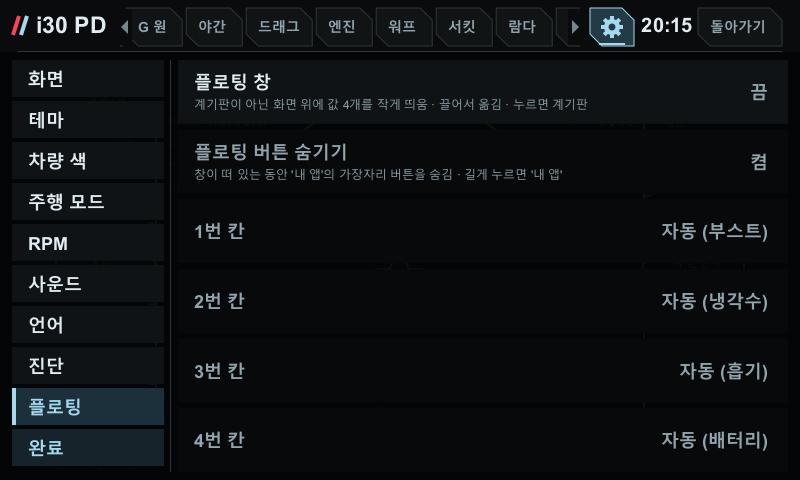
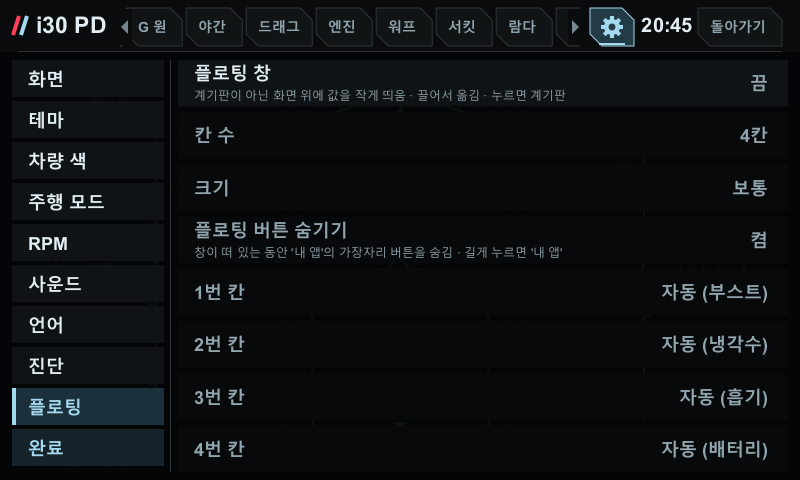
플로팅 창: shape, cell count (1, 2, 4) and size (작게 / 보통 / 크게 / 아주 크게) chosen separately
설정 → 플로팅: 플로팅 창 cycles 끔 / 카드 / 아래 띠 / 옆 세로; 칸 수 1 / 2 / 4 (a card is 2 wide from two cells, the strip
one row, the side one column); 크기 0.85 / 1 / 1.5 / 2 times a 124 × 64 cell; the cell rows past the count are dimmed.
The first test build's single choice carries over (its 큰 카드 is a 4-cell card at 아주 크게). The dragged position is
kept per shape, count and size. Previews x_float_* show eight combinations.

diff --git a/shared/src/com/veloster/vehicle/FloatPanel.java b/shared/src/com/veloster/vehicle/FloatPanel.java
@@ -6,31 +6,44 @@ import android.graphics.RectF;
 import android.graphics.Typeface;
 
 /**
- * 플로팅 창: a small see-through window of four readings that the dashboard keeps over every other screen (navi, home,
- * media) while it is not on screen itself. Four shapes (작은 카드 2×2, 큰 카드 2×2, 아래 띠 4칸, 옆 세로 4칸); each cell a short
- * name, the value and a thin bar that follows it (from zero for a value that goes negative, like boost). Off by
- * default. The dashboard app's FloatService owns the window; this draws it and holds the choices. Host-testable.
+ * 플로팅 창: a small see-through window of readings that the dashboard keeps over every other screen (navi, home, media)
+ * while it is not on screen itself. Chosen in 설정 → 플로팅: the shape (카드, 아래 띠, 옆 세로), how many cells (1, 2 or 4)
+ * and the size; each cell a short name, the value and a thin bar that follows it (from zero for a value that goes
+ * negative, like boost). Off by default. The dashboard app's FloatService owns the window; this draws it and holds the
+ * choices. Host-testable.
  */
 public final class FloatPanel {
-    public static final int OFF=0,SMALL=1,LARGE=2,STRIP=3,SIDE=4;
-    public static final String[] STYLE_NAMES={"끔","작은 카드 2×2","큰 카드 2×2","아래 띠 4칸","옆 세로 4칸"};
-    private static final int[] COLS={0,2,2,4,1},CW={0,124,250,125,124},CH={0,66,132,60,64};
+    public static final int OFF=0,CARD=1,STRIP=2,SIDE=3;
+    public static final String[] SHAPE_NAMES={"끔","카드","아래 띠","옆 세로"};
+    public static final int[] COUNTS={1,2,4};
+    public static final String[] SIZE_NAMES={"작게","보통","크게","아주 크게"};
+    public static final float[] SIZES={.85f,1,1.5f,2};
+    /** A cell at size 보통, px. */
+    static final int CELL_W=124,CELL_H=64;
     /** What a cell can show, in the order a tap on its settings row steps through, with the short name it shows. */
     public static final int[] CHOICES={Telemetry.BOOST,2,Telemetry.INTAKE,Telemetry.BAT_VOLTAGE,9,7,0,Telemetry.AMBIENT,Telemetry.FUEL_LEVEL,
         Telemetry.ENGINE_LOAD,10,Telemetry.CLUTCH_ODD,Telemetry.CLUTCH_EVEN,Telemetry.DPF_SOOT,Telemetry.DPF_TEMP};
     public static final String[] CHOICE_NAMES={"부스트","냉각수","흡기","배터리","페달","속도","RPM","외기온","연료","엔진 부하","브레이크","클러치 홀수","클러치 짝수","DPF 포집","DPF 온도"};
     /** -1 = automatic: boost, coolant, intake, battery; a diesel shows its DPF soot in the third. */
     public static final int[] AUTO_PETROL={Telemetry.BOOST,2,Telemetry.INTAKE,Telemetry.BAT_VOLTAGE},AUTO_DIESEL={Telemetry.BOOST,2,Telemetry.DPF_SOOT,Telemetry.BAT_VOLTAGE};
-    public static volatile int style=OFF;
+    public static volatile int shape=OFF,count=4,size=1;
     public static volatile boolean hideButton=true;
     public static final int[] cells={-1,-1,-1,-1};
 
     private FloatPanel(){}
-    public static int width(int s){return s<=OFF||s>=COLS.length?0:COLS[s]*CW[s];}
-    public static int height(int s){return s<=OFF||s>=COLS.length?0:(4/COLS[s])*CH[s];}
-    /** Where the window starts (screen 800 × 480, below the 52 px status bar): cards and the side column top right, the strip bottom middle. */
-    public static int defaultX(int s){return s==STRIP?(800-width(s))/2:800-width(s)-8;}
-    public static int defaultY(int s){return s==STRIP?480-height(s)-10:62;}
+    /** Columns of a shape with n cells: a card is 2 wide from 2 cells, the strip one row, the side one column. */
+    public static int cols(int shape,int n){return shape==STRIP?n:shape==SIDE?1:Math.min(2,n);}
+    public static int rows(int shape,int n){return (n+cols(shape,n)-1)/cols(shape,n);}
+    public static int cellW(int size){return Math.round(CELL_W*SIZES[clampSize(size)]);}
+    public static int cellH(int size){return Math.round(CELL_H*SIZES[clampSize(size)]);}
+    public static int width(int shape,int n,int size){return shape<=OFF?0:cols(shape,n)*cellW(size);}
+    public static int height(int shape,int n,int size){return shape<=OFF?0:rows(shape,n)*cellH(size);}
+    private static int clampSize(int s){return Math.max(0,Math.min(SIZES.length-1,s));}
+    /** Where the window starts (screen 800 × 480, below the 52 px status bar): the card and the side column top right, the strip bottom middle. */
+    public static int defaultX(int shape,int n,int size){return shape==STRIP?(800-width(shape,n,size))/2:800-width(shape,n,size)-8;}
+    public static int defaultY(int shape,int n,int size){return shape==STRIP?480-height(shape,n,size)-10:62;}
+    /** The next cell count after the current one (1, 2, 4, 1 ...). */
+    public static int nextCount(int n){return n>=4?1:n>=2?4:2;}
     /** The signal cell k shows (the automatic choice resolved for the car). */
     public static int signal(int k,boolean diesel){int c=cells[k];return c>=0?c:(diesel?AUTO_DIESEL:AUTO_PETROL)[k];}
     /** The next choice for a cell: automatic, then CHOICES in order, then automatic again. */
@@ -39,14 +52,14 @@ public final class FloatPanel {
 
     private static final Paint p=new Paint(3);private static final RectF r=new RectF();
     private static final int BG=0xd8080c10,EDGE=0x33ffffff,DIV=0x22ffffff,TXT=0xfff0f4f7,MUT=0xff96a0aa,TRACK=0x28ffffff,ACC=0xff5ac8fa,WARM=0xffffaa3c,HOT=0xffff4b3c;
-    /** Draws style s at 0,0 from the samples (index = signal). */
-    public static void draw(Canvas c,int s,Telemetry.Sample[] q,boolean diesel){
-        int cols=COLS[s],cw=CW[s],ch=CH[s],w=width(s),h=height(s);float k=s==LARGE?2:1;
-        p.setStyle(Paint.Style.FILL);p.setColor(BG);r.set(0,0,w,h);c.drawRoundRect(r,10,10,p);
-        p.setStyle(Paint.Style.STROKE);p.setStrokeWidth(1);p.setColor(EDGE);r.set(.5f,.5f,w-.5f,h-.5f);c.drawRoundRect(r,10,10,p);
-        p.setColor(DIV);for(int i=1;i<cols;i++)c.drawLine(i*cw,8,i*cw,h-8,p);for(int i=1;i<4/cols;i++)c.drawLine(8,i*ch,w-8,i*ch,p);
+    /** Draws the window (shape, n cells, size) at 0,0 from the samples (index = signal). */
+    public static void draw(Canvas c,int shape,int n,int size,Telemetry.Sample[] q,boolean diesel){
+        int cols=cols(shape,n),rows=rows(shape,n),cw=cellW(size),ch=cellH(size),w=cols*cw,h=rows*ch;float k=SIZES[clampSize(size)];
+        p.setStyle(Paint.Style.FILL);p.setColor(BG);r.set(0,0,w,h);c.drawRoundRect(r,10*k,10*k,p);
+        p.setStyle(Paint.Style.STROKE);p.setStrokeWidth(1);p.setColor(EDGE);r.set(.5f,.5f,w-.5f,h-.5f);c.drawRoundRect(r,10*k,10*k,p);
+        p.setColor(DIV);for(int i=1;i<cols;i++)c.drawLine(i*cw,8*k,i*cw,h-8*k,p);for(int i=1;i<rows;i++)c.drawLine(8*k,i*ch,w-8*k,i*ch,p);
         p.setStyle(Paint.Style.FILL);
-        for(int i=0;i<4;i++){int sig=signal(i,diesel);float x=(i%cols)*cw,y=(i/cols)*ch;Telemetry.Sample m=q[sig];float v=m.valid?m.value:Float.NaN;
+        for(int i=0;i<n;i++){int sig=signal(i,diesel);float x=(i%cols)*cw,y=(i/cols)*ch;Telemetry.Sample m=q[sig];float v=m.valid?m.value:Float.NaN;
             int lv=Tiles.level(sig,v),col=lv==2?HOT:lv==1?WARM:TXT;
             text(c,name(sig),x+8*k,y+17*k,12*k,MUT,Paint.Align.LEFT,Typeface.DEFAULT_BOLD);
             String unit=Telemetry.UNITS[sig],val=Tiles.text(sig,v);float uw=width(unit,11*k,Typeface.DEFAULT);

diff --git a/apps/dashboard/src/com/veloster/dashboard/FloatService.java b/apps/dashboard/src/com/veloster/dashboard/FloatService.java
@@ -20,7 +20,7 @@ import com.veloster.vehicle.VehicleDash;
  * 플로팅 창: while the dashboard is not on screen (any other app: navi, home, media), keeps reading the car (its own
  * VehicleDataClient, like the activity's) and shows FloatPanel over everything. Started by DashboardActivity.onPause and
  * at boot when 설정 → 플로팅 → 플로팅 창 is on; stopped when the dashboard comes back. Redraws 20 times a second. A tap opens
- * the dashboard, a long press 내 앱, a drag moves it (remembered per shape). Steps aside while the rear camera shows. With
+ * the dashboard, a long press 내 앱, a drag moves it (remembered per shape, cell count and size). Steps aside while the rear camera shows. With
  * 플로팅 버튼 숨기기 on it asks 내 앱 to hide its edge button, again every 30 s while up (내 앱 brings the button back on
  * its own when that stops); on the way out it asks for the button back.
  */
@@ -32,13 +32,13 @@ public final class FloatService extends Service implements Runnable {
     private WindowManager windows;
     private View panel;
     private WindowManager.LayoutParams layout;
-    private int shown=FloatPanel.OFF;
+    private int shown=-1;   // the key (shape, cells, size) of the window up, -1 none
     private long hideSentAt;private boolean hideSent;
 
     /** Starts the window if it is switched on (the dashboard just left the screen, or the head unit booted). */
     static void startIfOn(Context c){
         VehicleDash.loadFloat(c.getSharedPreferences("pit_vehicle_ui",0));
-        if(FloatPanel.style!=FloatPanel.OFF)try{c.startService(new Intent(c,FloatService.class));}catch(RuntimeException e){android.util.Log.w("VehicleDash","Floating window not started",e);}
+        if(FloatPanel.shape!=FloatPanel.OFF)try{c.startService(new Intent(c,FloatService.class));}catch(RuntimeException e){android.util.Log.w("VehicleDash","Floating window not started",e);}
     }
     static void stop(Context c){try{c.stopService(new Intent(c,FloatService.class));}catch(RuntimeException ignored){/* not running */}}
 
@@ -51,27 +51,27 @@ public final class FloatService extends Service implements Runnable {
     }
     public int onStartCommand(Intent intent,int flags,int startId){
         VehicleDash.loadFloat(prefs());
-        if(FloatPanel.style==FloatPanel.OFF){stopSelf();return START_NOT_STICKY;}
+        if(FloatPanel.shape==FloatPanel.OFF){stopSelf();return START_NOT_STICKY;}
         return START_STICKY;
     }
     private SharedPreferences prefs(){return getSharedPreferences("pit_vehicle_ui",0);}
 
     public void run(){
-        int want=VehicleDash.rearCamera()?FloatPanel.OFF:FloatPanel.style;
-        if(want!=shown){remove();if(want!=FloatPanel.OFF)add(want);}
+        int want=VehicleDash.rearCamera()||FloatPanel.shape==FloatPanel.OFF?-1:FloatPanel.shape*100+FloatPanel.count*10+FloatPanel.size;
+        if(want!=shown){remove();if(want>=0)add(FloatPanel.shape,FloatPanel.count,FloatPanel.size);}
         if(panel!=null){panel.invalidate();
             long now=android.os.SystemClock.elapsedRealtime();
             if(FloatPanel.hideButton&&(!hideSent||now-hideSentAt>=HIDE_REPEAT_MS)){hide(true);hideSentAt=now;}
             else if(!FloatPanel.hideButton&&hideSent)hide(false);}
         handler.postDelayed(this,FRAME_MS);
     }
-    private void add(final int style){
-        final int w=FloatPanel.width(style),h=FloatPanel.height(style);
+    private void add(final int shape,final int n,final int size){
+        final int w=FloatPanel.width(shape,n,size),h=FloatPanel.height(shape,n,size);final String at=shape+"_"+n+"_"+size;
         layout=new WindowManager.LayoutParams(w,h,WindowManager.LayoutParams.TYPE_PHONE,
             WindowManager.LayoutParams.FLAG_NOT_FOCUSABLE|WindowManager.LayoutParams.FLAG_NOT_TOUCH_MODAL|WindowManager.LayoutParams.FLAG_LAYOUT_NO_LIMITS,PixelFormat.TRANSLUCENT);
         layout.gravity=Gravity.TOP|Gravity.LEFT;
-        layout.x=prefs().getInt("float_x_"+style,FloatPanel.defaultX(style));layout.y=prefs().getInt("float_y_"+style,FloatPanel.defaultY(style));
-        final View v=new View(this){protected void onDraw(Canvas c){FloatPanel.draw(c,style,VehicleDash.snapshotNow(),VehicleDash.diesel());}};
+        layout.x=prefs().getInt("float_x_"+at,FloatPanel.defaultX(shape,n,size));layout.y=prefs().getInt("float_y_"+at,FloatPanel.defaultY(shape,n,size));
+        final View v=new View(this){protected void onDraw(Canvas c){FloatPanel.draw(c,shape,n,size,VehicleDash.snapshotNow(),VehicleDash.diesel());}};
         v.setOnTouchListener(new View.OnTouchListener(){
             float downX,downY;int startX,startY;boolean moved,held;
             final Runnable longPress=new Runnable(){public void run(){held=true;open(HUB,"com.veloster.carplayhub.HubActivity");}};
@@ -84,7 +84,7 @@ public final class FloatService extends Service implements Runnable {
                         layout.x=Math.max(0,Math.min(800-w,startX+(int)dx));layout.y=Math.max(0,Math.min(480-h,startY+(int)dy));
                         try{windows.updateViewLayout(view,layout);}catch(RuntimeException ignored){/* removed meanwhile */}return true;}
                     case MotionEvent.ACTION_UP:handler.removeCallbacks(longPress);
-                        if(moved)prefs().edit().putInt("float_x_"+style,layout.x).putInt("float_y_"+style,layout.y).apply();
+                        if(moved)prefs().edit().putInt("float_x_"+at,layout.x).putInt("float_y_"+at,layout.y).apply();
                         else if(!held)open(getPackageName(),"com.veloster.dashboard.DashboardActivity");
                         return true;
                     case MotionEvent.ACTION_CANCEL:handler.removeCallbacks(longPress);return true;
@@ -92,12 +92,12 @@ public final class FloatService extends Service implements Runnable {
                 return false;
             }
         });
-        try{windows.addView(v,layout);panel=v;shown=style;}
-        catch(RuntimeException e){android.util.Log.w("VehicleDash","Floating window refused",e);panel=null;shown=FloatPanel.OFF;stopSelf();}
+        try{windows.addView(v,layout);panel=v;shown=shape*100+n*10+size;}
+        catch(RuntimeException e){android.util.Log.w("VehicleDash","Floating window refused",e);panel=null;shown=-1;stopSelf();}
     }
     private void remove(){
         if(panel!=null){try{windows.removeView(panel);}catch(RuntimeException ignored){/* already gone */}panel=null;}
-        shown=FloatPanel.OFF;
+        shown=-1;
         if(hideSent)hide(false);
     }
     private void open(String pkg,String cls){

diff --git a/shared/src/com/veloster/i18n/UiText.java b/shared/src/com/veloster/i18n/UiText.java
@@ -151,7 +151,7 @@ public final class UiText {
         EN.put("경유","Diesel");
         EN.put("계기판","Dashboard");
         EN.put("계기판 열기 · 길게 눌러 내 앱 · 끌어서 위치 변경 / Dashboard","Open dashboard; long-press for My Apps; drag to move");
-        EN.put("계기판이 아닌 화면 위에 값 4개를 작게 띄움 · 끌어서 옮김 · 누르면 계기판","Four readings in a small window over every other screen · drag to move · tap for the dashboard");
+        EN.put("계기판이 아닌 화면 위에 값을 작게 띄움 · 끌어서 옮김 · 누르면 계기판","Readings in a small window over every other screen · drag to move · tap for the dashboard");
         EN.put("계단 회전 곡선","Stepped rev curve");
         EN.put("고급유","Premium");
         EN.put("고른 값 게이지","Your chosen gauges");
@@ -433,9 +433,10 @@ public final class UiText {
         EN.put("실행 실패: ","Launch failed: ");
         EN.put("심야 %s시 최대 %d%%","Night %s h up to %d%%");
         EN.put("심야 할증 ","Night surcharge ");
-        EN.put("아래 띠 4칸","Bottom strip of 4");
+        EN.put("아래 띠","Bottom strip");
         EN.put("아이스","Ice");
         EN.put("아이언 그레이","Iron Grey");
+        EN.put("아주 크게","Extra large");
         EN.put("아케이드","Arcade");
         EN.put("안드로이드 기본 · 차에서 무음","Android default · silent in car");
         EN.put("안드로이드 기본앱","Android utilities");
@@ -490,7 +491,7 @@ public final class UiText {
         EN.put("연비·연료비","Economy · fuel cost");
         EN.put("연타 · 5번","Rapid · 5 taps");
         EN.put("영 수 증","RECEIPT");
-        EN.put("옆 세로 4칸","Side column of 4");
+        EN.put("옆 세로","Side column");
         EN.put("예상","PREDICTED");
         EN.put("예약","Booked");
         EN.put("오른쪽","Right");
@@ -570,8 +571,8 @@ public final class UiText {
         EN.put("자동 · 가장 가까운 서킷","Auto · nearest circuit");
         EN.put("자동 확인","confirmed automatically");
         EN.put("자동: 와이퍼·외기온·낮 전조등","Auto: wipers, outside temp, daytime lamps");
+        EN.put("작게","Small");
         EN.put("작동","Active");
-        EN.put("작은 카드 2×2","Small card 2×2");
         EN.put("잔상 3 s","3 s glow");
         EN.put("재생 중","Playing");
         EN.put("재생 중인 곡 없음","No track playing");
@@ -698,11 +699,14 @@ public final class UiText {
         EN.put("측정 준비를 누르세요","Tap Arm to start");
         EN.put("측정 중","timing");
         EN.put("측정 중 · 버튼","Timing");
+        EN.put("카드","Card");
         EN.put("카세트","Cassette");
         EN.put("카세트 데크","Cassette deck");
         EN.put("카세트 찰칵 소리","Cassette click sound");
         EN.put("카세트 화면의 건반: 재생·일시정지는 철컥, 곡 넘김은 딸깍 · 엔진 사운드와 별개","Cassette screen keys: play and pause latch with a clunk, a track skip clicks · separate from the engine sound");
         EN.put("카키","Khaki");
+        EN.put("칸"," cells");
+        EN.put("칸 수","Cells");
         EN.put("켜기","Enable");
         EN.put("켜면 재부팅 뒤에도 작은 바로가기만 복원합니다. 앱 화면은 자동으로 열지 않습니다. 가장자리 버튼은 끌어서 옮길 수 있습니다.\n\n시스템이 다른 앱 위 표시를 허용하지 않으면 알림만 유지합니다. 순정 화면에서 알림을 열 수 없는 경우에는 별도 메뉴 진입점이 필요합니다. 강제 종료하면 직접 앱을 다시 열 때까지 자동 복원이 중지될 수 있습니다.\n\nWhen enabled, reboot restores only the shortcut. Drag the edge button to move it. If overlays are denied, a notification remains. If the factory UI hides notifications too, use a separate menu entry. Force-stop may block restoration until My Apps is opened again.","When enabled, reboot restores only the shortcut, not the full app screen. Drag the edge button to move it.\n\nIf overlays are denied, the notification remains. If the factory UI also hides notifications, use another entry point. Force-stop may prevent restoration until My Apps is opened again.");
         EN.put("켜짐 (짧게 누르면 계기판)","On (short press opens the dashboard)");
@@ -710,7 +714,8 @@ public final class UiText {
         EN.put("코리아 인터내셔널 서킷","Korea International Circuit");
         EN.put("코치","Coach");
         EN.put("코퍼","Copper");
-        EN.put("큰 카드 2×2","Large card 2×2");
+        EN.put("크게","Large");
+        EN.put("크기","Size");
         EN.put("클래식","Classic");
         EN.put("클러스터","Cluster");
         EN.put("클러치","Clutch");

diff --git a/shared/src/com/veloster/vehicle/VehicleDash.java b/shared/src/com/veloster/vehicle/VehicleDash.java
@@ -302,12 +302,16 @@ public final class VehicleDash extends View implements Runnable {
     private static long mapLogAt;
     /** The floating window's choices from the dashboard's preferences (pit_vehicle_ui); FloatService reads the same. */
     public static void loadFloat(android.content.SharedPreferences p){
-        try{FloatPanel.style=Math.max(FloatPanel.OFF,Math.min(FloatPanel.SIDE,p.getInt("float_style",FloatPanel.OFF)));FloatPanel.hideButton=p.getBoolean("float_hide_button",true);
+        try{int shape=p.getInt("float_shape",-1),size=p.getInt("float_size",1);
+            if(shape<0){int old=p.getInt("float_style",0);shape=old==1||old==2?FloatPanel.CARD:old==3?FloatPanel.STRIP:old==4?FloatPanel.SIDE:FloatPanel.OFF;if(old==2)size=3;}   // the first test build's single choice
+            FloatPanel.shape=Math.max(FloatPanel.OFF,Math.min(FloatPanel.SIDE,shape));FloatPanel.size=Math.max(0,Math.min(FloatPanel.SIZES.length-1,size));
+            int n=p.getInt("float_count",4);FloatPanel.count=n==1||n==2?n:4;FloatPanel.hideButton=p.getBoolean("float_hide_button",true);
             for(int k=0;k<4;k++){int v=p.getInt("float_cell_"+k,-1);FloatPanel.cells[k]=v<0||v>=Telemetry.LABELS.length?-1:v;}}
-        catch(ClassCastException e){FloatPanel.style=FloatPanel.OFF;}
+        catch(ClassCastException e){FloatPanel.shape=FloatPanel.OFF;}
     }
     private static void saveFloat(android.content.SharedPreferences.Editor e){
-        e.putInt("float_style",FloatPanel.style).putBoolean("float_hide_button",FloatPanel.hideButton);for(int k=0;k<4;k++)e.putInt("float_cell_"+k,FloatPanel.cells[k]);}
+        e.putInt("float_shape",FloatPanel.shape).putInt("float_count",FloatPanel.count).putInt("float_size",FloatPanel.size).putBoolean("float_hide_button",FloatPanel.hideButton).remove("float_style");
+        for(int k=0;k<4;k++)e.putInt("float_cell_"+k,FloatPanel.cells[k]);}
     /** Every signal now, for the floating window (FloatService) while the dashboard is not on screen. */
     public static Telemetry.Sample[] snapshotNow(){return DATA.snapshot(SystemClock.elapsedRealtime());}
     public static boolean diesel(){return DATA.profile().fuel==VehicleProfile.Fuel.DIESEL;}
@@ -525,8 +529,10 @@ public final class VehicleDash extends View implements Runnable {
                     e.putBoolean("engine_sound",soundOn).putInt("engine_sound_route",soundRoute).putInt("engine_sound_engine",soundEngine).putInt("engine_sound_exhaust",soundExhaust);
                     sound.play(soundOn&&resumed&&getVisibility()==VISIBLE?soundRoute:-1);break;
                 case SettingsLayout.FLOAT:
-                    if(i==SettingsLayout.FLOAT_STYLE)FloatPanel.style=(FloatPanel.style+1)%FloatPanel.STYLE_NAMES.length;
-                    else if(FloatPanel.style==FloatPanel.OFF)break;
+                    if(i==SettingsLayout.FLOAT_STYLE)FloatPanel.shape=(FloatPanel.shape+1)%FloatPanel.SHAPE_NAMES.length;
+                    else if(FloatPanel.shape==FloatPanel.OFF)break;
+                    else if(i==SettingsLayout.FLOAT_COUNT)FloatPanel.count=FloatPanel.nextCount(FloatPanel.count);
+                    else if(i==SettingsLayout.FLOAT_SIZE)FloatPanel.size=(FloatPanel.size+1)%FloatPanel.SIZES.length;
                     else if(i==SettingsLayout.FLOAT_HIDE)FloatPanel.hideButton=!FloatPanel.hideButton;
                     else{int fc=i-SettingsLayout.FLOAT_CELL;FloatPanel.cells[fc]=FloatPanel.next(FloatPanel.cells[fc]);}
                     saveFloat(e);break;

diff --git a/i30pd_port/app/preview/TabsPreview.java b/i30pd_port/app/preview/TabsPreview.java
@@ -86,12 +86,15 @@ public final class TabsPreview {
         rec.setPicker(true,true,(1<<2)|(1<<7)|(1<<12)|(1<<20));rec.setModeOptions(true,false);rec.setSound(true,0,0,0,SettingsLayout.SOUND_DEFAULT);
         int[] targets={ClusterPicker.F1+2,ClusterPicker.GAUGES,-1};   // SPORT set to the race page, ECO to the gauges
         for(int k=0;k<cats.length;k++){rec.setSettings(k,"auto",-1,targets);save(out,"9_settings_"+cats[k],rec,model,now,false,false);}
-        {   // the floating window (FloatPanel), each shape over the 개요 page standing in for another app
-            String[] fn={"","small","large","strip","side"};FloatPanel.cells[2]=-1;
-            for(int st=1;st<=4;st++){BufferedImage img=new BufferedImage(800,480,BufferedImage.TYPE_INT_RGB);java.awt.Graphics2D g=img.createGraphics();
-                new PitRenderer().draw(new android.graphics.Canvas(g),800,480,false,model,now);
-                java.awt.Graphics2D g2=img.createGraphics();g2.translate(FloatPanel.defaultX(st),FloatPanel.defaultY(st));
-                FloatPanel.draw(new android.graphics.Canvas(g2),st,model.snapshot(now),false);ImageIO.write(img,"png",new File(out,"x_float_"+fn[st]+".png"));}
+        {   // the floating window (FloatPanel): shapes, cell counts and sizes over the 개요 page standing in for another app
+            int[][] combos={{1,4,1},{1,4,3},{1,2,1},{1,1,2},{2,4,1},{2,2,0},{3,4,1},{3,2,2}};
+            String[] cn={"card4","card4_xl","card2","card1_l","strip4","strip2_s","side4","side2_l"};FloatPanel.cells[2]=-1;
+            for(int ci=0;ci<combos.length;ci++){int sh=combos[ci][0],n=combos[ci][1],sz=combos[ci][2];
+                BufferedImage img=new BufferedImage(800,480,BufferedImage.TYPE_INT_RGB);
+                new PitRenderer().draw(new android.graphics.Canvas(img.createGraphics()),800,480,false,model,now);
+                java.awt.Graphics2D g2=img.createGraphics();g2.translate(FloatPanel.defaultX(sh,n,sz),FloatPanel.defaultY(sh,n,sz));
+                FloatPanel.draw(new android.graphics.Canvas(g2),sh,n,sz,model.snapshot(now),false);ImageIO.write(img,"png",new File(out,"x_float_"+cn[ci]+".png"));}
+            FloatPanel.shape=FloatPanel.CARD;FloatPanel.count=2;   // the settings shot below shows the window on, two cells
         }
         rec.setBeep(true,2,70,new int[]{0,2,-1},1);rec.setSettings(4,"auto",-1,targets);save(out,"9_settings_rpm_beep",rec,model,now,false,false);rec.setBeep(false,0,70,new int[]{-1,-1,-1},0);
         rec.setModeOptions(true,true);rec.setSettings(3,"auto",-1,targets);save(out,"9_settings_mode_on",rec,model,now,false,false);

diff --git a/shared/src/com/veloster/vehicle/PitRenderer.java b/shared/src/com/veloster/vehicle/PitRenderer.java
@@ -301,10 +301,12 @@ public final class PitRenderer {
                         dim=d<0;value=d<0?"끔":SettingsLayout.BEEP_SOUNDS[d];break;}
                     name=i==SettingsLayout.RPM_SHIFT?"변속 목표":"레드라인";
                     sub=i==SettingsLayout.RPM_SHIFT?"레이스 SHIFT ▲ · F1 LED · 이름을 누르면 기본값":"SHIFT 경고 · 빨간 구간 · 이름을 누르면 기본값";break;
-                case SettingsLayout.FLOAT:{boolean off=FloatPanel.style==FloatPanel.OFF;
-                    if(i==SettingsLayout.FLOAT_STYLE){sel=!off;name="플로팅 창";sub="계기판이 아닌 화면 위에 값 4개를 작게 띄움 · 끌어서 옮김 · 누르면 계기판";value=FloatPanel.STYLE_NAMES[FloatPanel.style];}
+                case SettingsLayout.FLOAT:{boolean off=FloatPanel.shape==FloatPanel.OFF;
+                    if(i==SettingsLayout.FLOAT_STYLE){sel=!off;name="플로팅 창";sub="계기판이 아닌 화면 위에 값을 작게 띄움 · 끌어서 옮김 · 누르면 계기판";value=FloatPanel.SHAPE_NAMES[FloatPanel.shape];}
+                    else if(i==SettingsLayout.FLOAT_COUNT){dim=off;name="칸 수";value=FloatPanel.count+UiText.t("칸");}
+                    else if(i==SettingsLayout.FLOAT_SIZE){dim=off;name="크기";value=FloatPanel.SIZE_NAMES[FloatPanel.size];}
                     else if(i==SettingsLayout.FLOAT_HIDE){sel=FloatPanel.hideButton&&!off;dim=off;name="플로팅 버튼 숨기기";sub="창이 떠 있는 동안 '내 앱'의 가장자리 버튼을 숨김 · 길게 누르면 '내 앱'";value=FloatPanel.hideButton?"켬":"끔";}
-                    else{int k=i-SettingsLayout.FLOAT_CELL,cv=FloatPanel.cells[k];dim=off;name=(k+1)+UiText.t("번 칸");value=cv<0?UiText.t("자동")+" ("+UiText.t(FloatPanel.name(FloatPanel.signal(k,profile!=null&&profile.fuel==VehicleProfile.Fuel.DIESEL)))+")":UiText.t(FloatPanel.name(cv));}
+                    else{int k=i-SettingsLayout.FLOAT_CELL,cv=FloatPanel.cells[k];dim=off||k>=FloatPanel.count;name=(k+1)+UiText.t("번 칸");value=cv<0?UiText.t("자동")+" ("+UiText.t(FloatPanel.name(FloatPanel.signal(k,profile!=null&&profile.fuel==VehicleProfile.Fuel.DIESEL)))+")":UiText.t(FloatPanel.name(cv));}
                     break;}
                 case SettingsLayout.SOUND:
                     if(!SettingsLayout.ENGINE_SOUND){name="엔진 사운드";dim=true;value="사용 안 함";}

diff --git a/shared/src/com/veloster/vehicle/SettingsLayout.java b/shared/src/com/veloster/vehicle/SettingsLayout.java
@@ -6,9 +6,10 @@ package com.veloster.vehicle;
  */
 public final class SettingsLayout {
     public static final int SCREENS=0,THEME=1,PAINT=2,MODE=3,RPM=4,SOUND=5,LANG=6,DIAG=7,FLOAT=8,DONE=9;
-    /** 플로팅 pane rows: the window's shape (FloatPanel.STYLE_NAMES, cycles), whether it hides 내 앱's floating button, then
-     *  what each of its four cells shows (cycles 자동 and FloatPanel.CHOICES). */
-    public static final int FLOAT_STYLE=0,FLOAT_HIDE=1,FLOAT_CELL=2;
+    /** 플로팅 pane rows: the window's shape (FloatPanel.SHAPE_NAMES, cycles; 끔 first), how many cells (1, 2, 4), its size
+     *  (FloatPanel.SIZE_NAMES), whether it hides 내 앱's floating button, then what each cell shows (cycles 자동 and
+     *  FloatPanel.CHOICES). */
+    public static final int FLOAT_STYLE=0,FLOAT_COUNT=1,FLOAT_SIZE=2,FLOAT_HIDE=3,FLOAT_CELL=4;
     /** Not a category: the screen chooser a mode row opens (every screen, then 원래 화면), under a title line. */
     public static final int PICK=10;
     /** RPM pane rows: RPM_SHIFT/RPM_RED and RPM_BEEP_VOL have − and + at the right (screenZone 1 and 2), the rest of the
